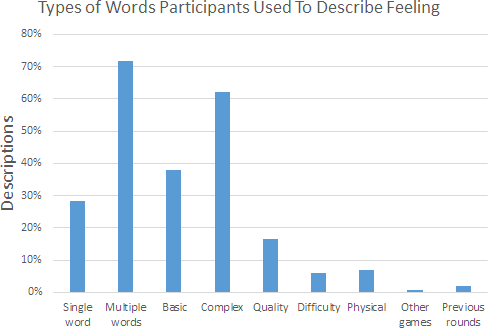
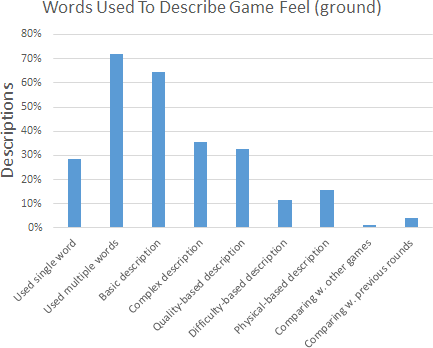
New graphs

diff --git a/GameFeel_Project/P8 paper/data.tex b/GameFeel_Project/P8 paper/data.tex
@@ -10,7 +10,7 @@ As stated previously, the game was mainly shared on gaming websites. At the time
 \label{table:demographics1}
 \renewcommand{\arraystretch}{1.2}
 \begin{tabular}{cccc}
-\midrule
+\toprule
 \textbf{Platform} & Windows Web: & Windows Exe: & Mac Web: \\
                   & 55.2\%      & 30.7\%      & 14.1\%  \\
 \textbf{Gender}   & Male:        & Female:      & Other:   \\
@@ -27,7 +27,7 @@ As stated previously, the game was mainly shared on gaming websites. At the time
 \label{table:demographics2}
 %\renewcommand{\arraystretch}{1.2}
 \begin{tabular}{lcc}
-\midrule
+\toprule
 \textbf{Regions}                      &                & \textbf{}               \\ 
 \textit{Europe}                      & 70.6\%         &                         \\
 \textit{Americas}                    & 26.7\%         &                         \\
@@ -48,6 +48,8 @@ As stated previously, the game was mainly shared on gaming websites. At the time
 \end{table}
 
 As stated in Section \ref{latinSection}, ideally there should be an equal amount of participants in each of the four Latin square sequences. However, as shown in Table \ref{table:latinSequenceNumber}, this is not the case. This might be due to either players quitting halfway, or that participants for some reason lost the Internet connection while trying to access the current Latin square number (in this case, the sequence was chosen randomly). Each time a participant collects three stars and answers the mid-questionnaire, data is logged. In total, 701 data logs were collected. Figure \ref{fig:retention} illustrates the retention rate of the participants.
+
+Figure \ref{fig:overallDistribution} shows the overall distribution of the acceleration/deceleration combinations that participants experienced. As stated previously, the time intervals were either \textit{fast} (0-240 ms) or \textit{slow} (241-1500 ms). Since the span of the intervals are not of equal lengths, neither are the distribution, as shown in the figure. A way to counter this would be to divide the \textit{slow} category into multiple smaller intervals of equal lengths, but this would again affect the number of possible sequences and Latin squares.
 
 \begin{table} \centering
 %\small
@@ -75,32 +77,57 @@ As stated in Section \ref{latinSection}, ideally there should be an equal amount
 \subsection{Mid-questionnaire}
 Whenever players collected three stars, they were met with a set of questions (see Figure \ref{fig:questionnaire}). In the first part, participants describe the game feel in their own words, while in the second part they rate pre-defined words on a 7-point Likert scale (1 = \textit{not at all}; 7 = \textit{a lot}).
 
-\subsubsection{Describing Game Feel in Own Words}
-To get an overview of the words participants used, a word cloud has been generated (see Figure \ref{fig:wordcloud}). This illustrates the most commonly-used words, such as \textit{ball}, \textit{control}, \textit{fast}, \textit{heavy}, \textit{slow}, \textit{like}, \textit{responsive}, \textit{sluggish}, \textit{easy} and \textit{momentum}.
+\begin{figure}[htbp]
+\centering
+\includegraphics[width=0.7\columnwidth]{Pics/Classes/overall_distribution}
+\caption{Scatter plot of all the different acceleration/deceleration combinations participants experienced.}
+\label{fig:overallDistribution}
+\end{figure}
 
-The words that the participants used to describe the game feel have manually, by a the author, been put into one or more of following nine categories (see Figure \ref{fig:coding1}). Note that a description can include words from multiple categories at once. The average word count for ground descriptions is 5,4 words.
+\subsubsection{Describing Game Feel in Own Words}
+Table \ref{table:mostWords} shows the 30 most commonly-used words that participants used to describe the game feel (both on ground and in air). Additionally, these words have manually, by the author, been put into one or more of following nine categories (see Figure \ref{fig:coding1}). Note that a description can include words from multiple categories at once. The average word count was 3.4 words for ground description and 5.1 words for air description.
+
 \begin{itemize}[noitemsep,nolistsep]
 \item Single words or multiple words?
 \item Basic or complex words (basic words are root words that can stand on their own, e.g., \textit{heavy} and \textit{laggy}, whereas complex words consist of modifiers that somehow change the meaning of the root words, e.g., \textit{very fast} or \textit{a bit sluggish})?
 \item Did the words describe a quality/opinion (using words such as \textit{fun}, \textit{too fast} or \textit{very annoying} or \textit{unrealistic})?
-\item Did the words describe anything related to the difficulty; did the words use physical properties (\textit{like dragging through light mud}, using words such as \textit{force} and \textit{momentum})?
+\item Did the words describe anything related to the difficulty; did the words use physical properties (\textit{like dragging through light mud}, using words such as \textit{force}, \textit{friction} and \textit{momentum})?
 \item Did the words make comparisons to other games (\textit{like Mario} or \textit{like Mega Man})?
-\item Did the words make comparisons to previous rounds of the game (\textit{similar to last round})?
+\item Did the words make comparisons to previous rounds of the game (\textit{felt no difference from last game})?
 \end{itemize}
+
+\begin{table} \centering
+\caption{The 30 most commonly-used words (among the 701 data entries). Numbers in parenthesis indicate usage frequency. Common grammar words have been excluded.}
+\label{table:mostWords}
+\begin{tabular}{lll}
+\toprule
+heavy (165) & slow (132) & ball (122)\\
+responsive (104) & fast (94) & like (90)\\
+control (87) & very (83) & too (80)\\ 
+easy (78) & momentum (61) & realistic (61)\\
+sluggish (58) & floaty (58) & bit (54)\\
+air  (52) & good (51) & unrealistic (51)\\
+feels (50) & little (45) & hard (42)\\
+felt (40) & fluid (39) & still (38)\\
+ground (37) & jump (37) & same (36)\\
+speed (35) & time (34) & stop (31)\\
+\bottomrule
+\end{tabular}
+\end{table}
 
 \begin{figure}[htbp]
 \centering
 \includegraphics[width=\columnwidth]{Pics/coding1}
-\caption{Coding1. NOTE: Coding not done yet.}
+\caption{The different types of words participant used to describe the game feel.}
 \label{fig:coding1}
 \end{figure}
 
-\begin{figure*}[htbp]
-\centering
-\includegraphics[width=1\textwidth]{Pics/wordcloud}
-\caption{The 130 most commonly-used words to describe the feel of the controls (both on ground and in air). Bigger means a word has been used more frequently. Common words such as \textit{a}, \textit{also}, \textit{and}, \textit{have}, \textit{could}, etc. have been excluded. Created with WordItOut.com.}
-\label{fig:wordcloud}
-\end{figure*}
+%\begin{figure*}[htbp]
+%\centering
+%\includegraphics[width=1\textwidth]{Pics/wordcloud}
+%\caption{The 130 most commonly-used words to describe the feel of the controls (both on ground and %in air). Bigger means a word has been used more frequently. Common words such as \textit{a}, %\textit{also}, \textit{and}, \textit{have}, \textit{could}, etc. have been excluded. Created with %WordItOut.com.}
+%\label{fig:wordcloud}
+%\end{figure*}
 
 \subsubsection{Rating Game Feel with Pre-Defined Words}
 Using a 7-point Likert scale, participants rated the game feel on the following pre-defined words.
@@ -123,80 +150,110 @@ Using a 7-point Likert scale, participants rated the game feel on the following 
 %\label{fig:average_rating}
 %\end{figure}
 
-One way to illustrate the responses is to plot the average ratings using acceleration and deceleration times, respectively (see Figures \ref{fig:acc_average_response} and \ref{fig:dec_average_response}). Even though one might be able to spot some slight tendencies, this way of showing the data is not accurate, since it splits up the acceleration and deceleration. The participants did not experience either in a vacuum; both were apparent all the time.
+\textbf{Scatter Plots with Acceleration or Deceleration}\\
+One way to illustrate the responses is to plot the Likert ratings along the axes of either acceleration or deceleration, as shown in Figures \ref{fig:twitchy_both} \ref{fig:fluid_both}, \ref{fig:stiff_both}, \ref{fig:floaty_both} and \ref{fig:responsive_both}. Even though one might be able to spot some slight tendencies, this way of showing the data is not accurate, since it splits up the acceleration and deceleration. The participants did not experience either in a vacuum; both were apparent all the time.
 
-\begin{figure}[htbp]
-\centering
-\includegraphics[width=0.97\columnwidth]{Pics/acc_average_response}
-\caption{Average ratings with acceleration.}
-\label{fig:acc_average_response}
-\end{figure}
-
-\begin{figure}[htbp]
-\centering
-\includegraphics[width=0.97\columnwidth]{Pics/dec_average_response}
-\caption{Average ratings with deceleration.}
-\label{fig:dec_average_response}
-\end{figure}
-
-A different way to plot the data is to use both acceleration and deceleration at the same time. The following graphs show how the participants rated the game across the different words. For the case of clarity, only answers 1, 4 and 7 on the Likert scale are shown. Looking at the data, it appears as if the perceived contribution of the acceleration and deceleration times, respectively, aren't always equal.
-
-When looking at Figure \ref{fig:twitchy}, it seems like the acceleration have a bigger influence than the deceleration when it comes to how \textit{twitchy} the game felt. Even with relatively high deceleration times (> 1 second), some participants still rated the game to feel very twitchy.
-
-Figure \ref{fig:fluid} shows how \textit{fluid} participants perceived the game. Again, it is difficult to find a strong pattern, since participants with both small (< 0.4 seconds) and high (> 0.6 seconds) acceleration/deceleration times report the game to feel relatively fluid. However, it is clear that high acceleration time (> 0.6 seconds) results in a perception of low fluid.
-
-With \textit{stiffness}, it appears that the deceleration has a greater influence than acceleration. This is evident in Figure \ref{fig:stiff}. Even with high acceleration times (> 0.6 seconds), participants still reported the game to feel stiff, as long as the deceleration time was below about 0.4 seconds.
-
-Figure \ref{fig:floaty} shows a slight tendency towards high deceleration times (> 1 second) for a more \textit{floaty} feel. That being said, many reported gave the rating 4 around deceleration time 0.2 seconds.
-
-With \textit{responsiveness}, there is a clear tendency towards acceleration having a bigger influence than deceleration. It seems like acceleration times below 0.2 seconds makes the game feel responsive. Likewise, when it comes to \textit{frustration}, Figure \ref{fig:frustration} shows that acceleration and deceleration times above 0.2 seconds makes participant feel frustration.
-
-%width=\columnwidth
 \begin{figure*}[htbp]
 \centering
-\includegraphics[width=0.67\textwidth]{Pics/Classes/Twitchy_classes}
-\caption{Players' self-reported perception on how twitchy the controls felt, rated using a 7-point Likert scale (only 1, 4 and 7 are shown).}
-\label{fig:twitchy}
+\includegraphics[width=0.95\textwidth]{Pics/Classes/twitchy_both}
+\caption{Looking at twitchy for acceleration and deceleration.}
+\label{fig:twitchy_both}
 \end{figure*}
 
 \begin{figure*}[htbp]
 \centering
-\includegraphics[width=0.67\textwidth]{Pics/Classes/Fluid_classes}
-\caption{Players' self-reported perception on how fluid the controls felt, rated using a 7-point Likert scale (only 1, 4 and 7 are shown).}
-\label{fig:fluid}
+\includegraphics[width=0.95\textwidth]{Pics/Classes/fluid_both}
+\caption{Looking at fluid for acceleration and deceleration.}
+\label{fig:fluid_both}
 \end{figure*}
 
 \begin{figure*}[htbp]
 \centering
-\includegraphics[width=0.67\textwidth]{Pics/Classes/Stiff_classes}
-\caption{Players' self-reported perception on how stiff the controls felt, rated using a 7-point Likert scale (only 1, 4 and 7 are shown).}
-\label{fig:stiff}
+\includegraphics[width=0.95\textwidth]{Pics/Classes/stiff_both}
+\caption{Looking at stiff for acceleration and deceleration.}
+\label{fig:stiff_both}
 \end{figure*}
 
 \begin{figure*}[htbp]
 \centering
-\includegraphics[width=0.67\textwidth]{Pics/Classes/Floaty_classes}
-\caption{Players' self-reported perception on how floaty the controls felt, rated using a 7-point Likert scale (only 1, 4 and 7 are shown).}
-\label{fig:floaty}
+\includegraphics[width=0.95\textwidth]{Pics/Classes/floaty_both}
+\caption{Looking at floaty for acceleration and deceleration.}
+\label{fig:floaty_both}
 \end{figure*}
 
 \begin{figure*}[htbp]
 \centering
-\includegraphics[width=0.67\textwidth]{Pics/Classes/Responsive_classes}
-\caption{Players' self-reported perception on how responsive the controls felt, rated using a 7-point Likert scale (only 1, 4 and 7 are shown).}
-\label{fig:responsive}
+\includegraphics[width=0.95\textwidth]{Pics/Classes/responsive_both}
+\caption{Looking at responsive for acceleration and deceleration.}
+\label{fig:responsive_both}
+\end{figure*}
+
+%\begin{figure}[htbp]
+%\centering
+%\includegraphics[width=0.97\columnwidth]{Pics/acc_average_response}
+%\caption{Average ratings with acceleration.}
+%\label{fig:acc_average_response}
+%\end{figure}
+
+%\begin{figure}[htbp]
+%\centering
+%\includegraphics[width=0.97\columnwidth]{Pics/dec_average_response}
+%\caption{Average ratings with deceleration.}
+%\label{fig:dec_average_response}
+%\end{figure}
+
+\textbf{Scatter Plots with Acceleration and Deceleration}\\
+The data can also be plotted by using acceleration and deceleration at the same time. The following graphs visualize how the participants rated the game across the different pre-defined words. Looking at the data, it appears as if the perceived contribution of the acceleration and deceleration values, respectively, aren't always equal. Generally, there are no clear correlations between the acceleration/deceleration values and the ratings provided by the participants. This might be due to difficulties in understanding and/or interpreting the words. Still, looking at the extremes (1 = \textit{not at all}; 7 = \textit{a lot}), some patterns seem to emerge.
+
+Figure \ref{fig:twitchyFluid} shows  how \textit{twitchy} the game felt. There appears to be one main cluster of 1-ratings. It seems like if the deceleration was low (< 0.2 seconds), participants tended to rate the game less twitchy. A similar, yet not as strong, cluster can be seen with low acceleration (< 0.2 seconds) where participants rated the game more twitchy.
+
+When it comes to how \textit{fluid} the game felt (Figure \ref{fig:twitchyFluid}), the data suggests that with low deceleration (< 0.1 seconds), the game didn't feel fluid. There is also a small cluster of 7-ratings around acceleration/deceleration values between 0.1 and 0.3 seconds.
+
+Figure \ref{fig:stiff_floaty} shows the \textit{stiffness} and \textit{floatyness}. These appear to be inversely proportional to each other, meaning that if both the acceleration and deceleration are low, the game feels more stiff, whereas it also feels less floaty. Additionally, there are two clusters with stiffness. These present two different interpretations of the word \textit{stiff}. The first is with high acceleration values (> 0.8 seconds), which might mean that the avatar is stiff in the sense that it resists change in motion, at least for a while. The other cluster is with lower acceleration values (< 0.3 seconds), where there is an immediate and direct relation between input and avatar motion (similar to to Figure \ref{fig:adsr_stiff}). Conversely, with higher deceleration values (> 0.2 seconds), the game doesn't appear very stiff.
+
+Figure \ref{fig:stiff_floaty} also shows a slight tendency towards high deceleration values (> 1 second) for a more \textit{floaty} feel.
+
+With \textit{responsiveness}, as shown in Figure \ref{fig:responsive_enjoyable}, there is a clear indication that values below 0.3 seconds appear most responsive. That being said, it seems like acceleration have a bigger influence than deceleration, since many participants reported high responsiveness even with deceleration values above 0.8 seconds. When looking at how \textit{enjoyable} the game felt (see Figure \ref{fig:responsive_enjoyable}), there seems to be a correlation with responsiveness, since most participants enjoyed acceleration and deceleration values below 0.3 seconds. The same can be said about how much participants \textit{liked} the controls and how \textit{difficult} the game felt, as Figure \ref{fig:difficult_liked} shows within the same interval as responsiveness.
+
+\begin{figure*}[htbp]
+\centering
+\includegraphics[width=0.67\textwidth]{Pics/Classes/twitchy_fluid}
+\caption{Players' self-reported perception on how twitchy and fluid the controls felt, rated using a 7-point Likert scale (only 1, 2, 6 and 7 are shown).}
+\label{fig:twitchyFluid}
 \end{figure*}
 
 \begin{figure*}[htbp]
 \centering
-\includegraphics[width=0.67\textwidth]{Pics/Classes/Frustration_classes}
-\caption{Players' self-reported perception on how frustrating the controls felt, rated using a 7-point Likert scale (only 1, 4 and 7 are shown).}
-\label{fig:frustration}
+\includegraphics[width=0.67\textwidth]{Pics/Classes/Stiff_floaty}
+\caption{Players' self-reported perception on how stiff and floaty the controls felt, rated using a 7-point Likert scale (only 1, 2, 6 and 7 are shown).}
+\label{fig:stiff_floaty}
 \end{figure*}
 
-A different way to visualize the data is to take the averages of the acceleration/deceleration times for each of the ratings, e.g., what are the average acceleration/deceleration times for twitchy rating 1, rating 2, rating 3, etc. However, since a Likert scale consists of ordinal values, there is no guarantee that a rating difference of e.g. 1 represents an equal conceptual change, since the scale might be used differently by different participants. For instance, some participants might be hesitant to use the extreme values 1 (not at all) and 7 (a lot), while others might spread their answers across the whole scale \cite{cunningham}. Because of this, in the following graphs, the averages have been put into three weighted categories, so that the extreme ends contribute more. The \textit{low rating} curve consists of ratings 1 (70\%), 2 (20\%) and 3 (10\%). The \textit{mid rating} curve consists of ratings 3 (25\%), 4 (50\%) and 5 (25\%). The \textit{high rating} consists of ratings 5 (10\%), 6 (20\%) and 7 (70\%). Using these numbers, it is now possible to draw attack/deceleration curves (see Figures \ref{fig:curve_twitchy}, \ref{fig:curve_fluid}, \ref{fig:curve_stiff}, \ref{fig:curve_floaty} and \ref{fig:curve_floaty}). For all curves, the sustain time is 1 second. The numbers in square brackets represent acceleration and deceleration times.
+\begin{figure*}[htbp]
+\centering
+\includegraphics[width=0.67\textwidth]{Pics/Classes/Responsive_enjoyable}
+\caption{Players' self-reported perception on how responsive and enjoyable the controls felt, rated using a 7-point Likert scale (only 1, 2, 6 and 7 are shown).}
+\label{fig:responsive_enjoyable}
+\end{figure*}
 
-At first glance, most of the curves seem similar. However, when comparing the three curves from the same word, there are some differences. For instance, there is a difference of about 360 milliseconds between the deceleration time in \textit{low rating} and \textit{high rating} in the \textit{floaty}. curve. Also, it should be noted that the difference words are not mutually exclusive, i.e., the controls can feel floaty and fluid at the same time.
+\begin{figure*}[htbp]
+\centering
+\includegraphics[width=0.67\textwidth]{Pics/Classes/difficult_like}
+\caption{Players' self-reported perception on how difficult and how much they liked the controls, rated using a 7-point Likert scale (only 1, 2, 6 and 7 are shown).}
+\label{fig:difficult_liked}
+\end{figure*}
+
+%\begin{figure}[htbp]
+%\centering
+%\includegraphics[width=0.9\columnwidth]{Pics/Classes/frustrated_alone}
+%\caption{Players' self-reported perception on how frustrated they felt the controls were, rated using %a 7-point Likert scale (only 1, 2, 6 and 7 are shown).}
+%\label{fig:frustration}
+%\end{figure}
+
+\textbf{Curves}\\
+A different way to visualize the data is to take the averages of the acceleration/deceleration values for each of the ratings, e.g., the average acceleration/deceleration values for twitchy rating 1, rating 2, rating 3, etc. However, since a Likert scale consists of ordinal values, there is no guarantee that a rating difference of e.g. 1 represents an equal conceptual change, since the scale might be used differently by different participants. For instance, some participants might be hesitant to use the extreme values 1 (\textit{not at all}) and 7 (\textit{a lot}), while others might spread their answers across the whole scale \cite{cunningham}. Because of this, in the following graphs, the averages have been put into three weighted categories, so that the extreme ends contribute more. The \textit{low rating} curve consists of ratings 1 (70\%), 2 (20\%) and 3 (10\%). The \textit{mid rating} curve consists of ratings 3 (25\%), 4 (50\%) and 5 (25\%). The \textit{high rating} consists of ratings 5 (10\%), 6 (20\%) and 7 (70\%). Using these numbers, it is now possible to draw acceleration/deceleration curves, as seen in Figures \ref{fig:curve_twitchy}, \ref{fig:curve_fluid}, \ref{fig:curve_stiff}, \ref{fig:curve_floaty} and \ref{fig:curve_floaty}. For all curves, the sustain time is 1 second. The numbers in square brackets represent acceleration and deceleration times.
+
+At first glance, many of the curves seem similar. However, when comparing the three curves from the same word, there are some differences. For instance, there is a difference of about 360 milliseconds between the deceleration in \textit{low rating} and \textit{high rating} in the \textit{floaty}. curve. Also, it should be noted that the difference words are not mutually exclusive, i.e., the controls can feel floaty and fluid at the same time.
 
 \begin{figure}[htbp]
 \centering
@@ -234,4 +291,40 @@ At first glance, most of the curves seem similar. However, when comparing the th
 \end{figure}
 
 \subsection{Post-questionnaire}
-When completing the fourth round of the game, a link was shown to a Google Forms questionnaire. At the time of writing, 146 participants have taken part in this post-questionnaire.
+When completing the fourth round of the game, a link was shown to a Google Forms questionnaire. At the time of writing, 153 participants have taken part in this post-questionnaire. Participants were asked to answer the following questions, as well as describing the feel of six other 2D platforming games.
+\begin{itemize}[noitemsep,nolistsep]
+\item What parameters do you think changed between each round in the ball game?
+\item Name one game you think feels good (different from the ball game you just played)
+\item In your own words, how would you define the feel of games?
+\item In general, how important do you find the feel of games? (1-7)
+\item How would you describe the feel of each of the following games/series?
+\begin{itemize}[noitemsep,nolistsep]
+\item Mega Man
+\item LittleBigPlanet
+\item Donkey Kong
+\item Super Meat Boy
+\item Prince of Persia (1989)
+\item Super Mario Bros.
+\end{itemize}
+\end{itemize}
+
+Table \ref{table:mostWords} shows the 30 most commonly-used words that participants used to describe the feel of the six 2D platforming games.
+
+\begin{table} \centering
+\caption{The 30 most commonly-used words (among the 153 data entries). Numbers in parenthesis indicate usage frequency. Common grammar words have been excluded.}
+\label{table:mostWords}
+\begin{tabular}{lll}
+\toprule
+game (207) & controls (145) & very (134)\\
+feel (130) & played (97) & responsive (85)\\
+feels (84) & like (80) & jump (63)\\
+control (61) & never (58) & fast (57)\\
+character (57) & good (56) & really (52)\\
+mario (51) & slow (49) & floaty (47)\\
+great (47) & because (46) & too (45)\\
+fun (45) & time (44) & just (43)\\
+games (42) & bit (42) & movement (41)\\
+hard (41) & precise (40) & super (40)\\
+\bottomrule
+\end{tabular}
+\end{table}

diff --git a/GameFeel_Project/P8 paper/experimentalDesign.tex b/GameFeel_Project/P8 paper/experimentalDesign.tex
@@ -72,7 +72,7 @@ Each time players collect three stars, the game is paused and a questionnaire is
 \caption{Participants are randomly shown five words to give them an idea of what they could write themselves.}
 \label{table:wordsExamples}
 \begin{tabular}{ccccc}
-\midrule
+\toprule
 Fragile & Rigid & Firm & Solid & Thick\\
 Fixed & Robust & Sore & Steadfast & Wild\\
 Constant & Free & Hard & Tough & Restricted\\

diff --git a/GameFeel_Project/P8 paper/notes.tex b/GameFeel_Project/P8 paper/notes.tex
@@ -25,3 +25,5 @@ Asking laymen instead of game designers
 Let players tweak variables themselves and make their perfect game feel
 
 Have to look at BOTH acc and dec; cannot just look at one axis individually
+
+Equal distribution (fast vs. slow)
